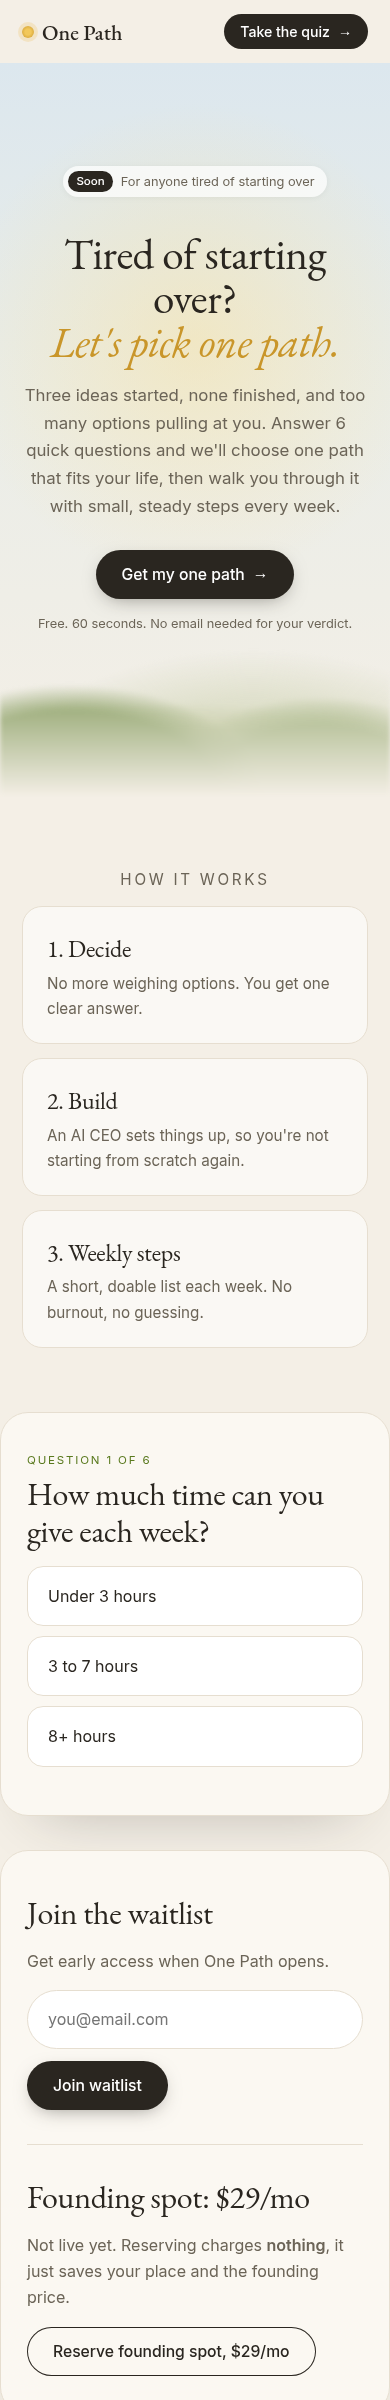
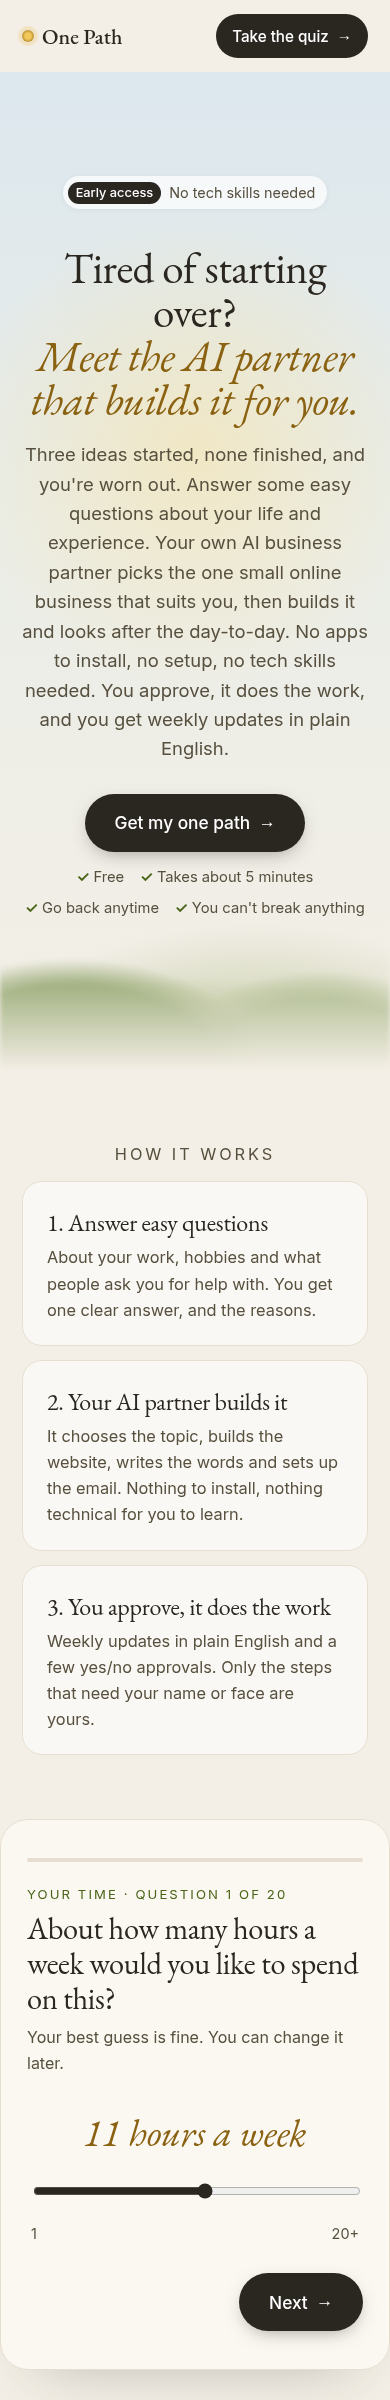
20-question plain-language assessment, AI partner positioning, optional in-your-own-words step, richer result

diff --git a/app.js b/app.js
@@ -1,29 +1,142 @@
-// CONFIG: set after Formspree signup (free tier). Same form receives waitlist + founding clicks.
+// One Path assessment. Formspree form xkjjjzlv receives waitlist + founding clicks.
 const FORM = "https://formspree.io/f/xkjjjzlv";
+const KEY = "onepath-v3";
 const gc = (path,title)=>{try{window.goatcounter&&goatcounter.count({path,title,event:true})}catch(e){}};
 const post = d=>fetch(FORM,{method:"POST",headers:{Accept:"application/json","Content-Type":"application/json"},body:JSON.stringify(d)});
-const P={
- freelance:{name:"Freelance one skill",why:"You already have a skill people pay for. Selling it as a simple service is the fastest way to learn what the market wants.",step:"Write a one-line offer for one skill and send it to 5 people or post it in one community."},
- digital:{name:"Sell one small digital product",why:"You can make things and like working alone. A template, guide or checklist can be built once and improved weekly.",step:"Pick one problem you've solved and outline a 1-page template or checklist for it."},
- content:{name:"Faceless content channel",why:"You have patience and some time but prefer not to be on camera. A focused topic channel builds slowly and steadily.",step:"Choose one narrow topic and draft titles for your first 10 posts."},
- creator:{name:"On-camera short videos",why:"You're comfortable on camera. Showing up consistently on one platform is your edge.",step:"Record and post 3 short videos about one thing you know, on one platform."},
- affiliate:{name:"Niche review site",why:"You have patience, little time pressure, and like writing. A small, honest review site in one niche can grow over months.",step:"Pick one niche you know and list 10 questions buyers ask about it."}};
+const esc = s=>String(s).replace(/[&<>"]/g,c=>({"&":"&amp;","<":"&lt;",">":"&gt;",'"':"&quot;"}[c]));
+
+const PATHS={
+ dir:{name:"A helpful guide website",line:"A website that lists and compares the best options for one thing people shop for, so they can choose with confidence.",
+  builds:["Chooses the exact topic, based on your answers","Builds the whole website for you","Writes the guides and comparison pages","Adds new pages every week","Sends you a plain-English update each week"],
+  you:["Say yes to the topic and the website's name","Glance over a few pages each week","Sign up for partner programs that need your real name"]},
+ dig:{name:"A shop for helpful downloads",line:"Simple checklists, planners or guides people buy and download, based on what you know.",
+  builds:["Finds a problem people are already looking to solve","Writes and designs the first download","Sets up the shop pages","Writes the announcement posts and emails","Tells you weekly what people looked at and bought"],
+  you:["Say yes to the product and its price","Read it over before it goes on sale","Open the payment account in your own name"]},
+ news:{name:"A weekly email people look forward to",line:"A short, friendly email each week that saves readers time on one subject.",
+  builds:["Decides who the readers are and what to cover","Sets up the email list and sign-up page","Researches and writes each week's email","Writes posts to help new readers find it","Tells you weekly how many people read it"],
+  you:["Read each email and approve it","Add a personal line now and then if you like","Create the email account in your own name"]},
+ face:{name:"A how-to video channel (you never appear)",line:"Short, useful videos on one subject, narrated by a voice and pictures, with no need to show your face.",
+  builds:["Picks the subject and studies what people watch","Writes every script and title","Makes the videos with narration and pictures","Uploads them on a schedule","Tells you weekly which videos people liked"],
+  you:["Say yes to the channel idea","Create the channel account in your name","Watch videos before they go live, if you want"]},
+ tool:{name:"A simple online tool",line:"A small web page that does one handy job, like a calculator or a checklist maker.",
+  builds:["Checks that people really want it","Builds the tool, start to finish","Puts it online with a clear welcome page","Writes the instructions","Keeps it running and fixes problems"],
+  you:["Say yes to the idea and the name","Try it and tell it what you think","Own the web address and any payment account"]},
+ lead:{name:"A local services website",line:"A website for your area that helps neighbors find a trusted local service, like roofers or pet sitters.",
+  builds:["Picks a service your area searches for","Builds the website and its local pages","Writes the content and the request form","Lists it on local maps and directories","Tells you weekly how many requests came in"],
+  you:["Say yes to the service and town","Have a short chat with one or two local businesses","Register the business listing in your name"]},
+ prod:{name:"A done-for-you helping service",line:"One clear service using your experience, like resume help or writing listings, with the AI doing most of the work.",
+  builds:["Shapes the service around what you already know","Builds the order page and the questions form","Drafts each piece of work for you","Handles the follow-up emails","Tells you weekly what came in and what's done"],
+  you:["Say yes to the service","Look over each piece of work before it's sent","Open the payment account in your own name"]},
+ crea:{name:"Short videos where you share what you know",line:"You talk to the camera for a minute or two. The AI handles scripts, editing and posting.",
+  builds:["Plans what to talk about each week","Writes your scripts in your voice","Edits your clips and posts them","Builds a simple page where people can follow you","Tells you weekly what people liked"],
+  you:["Record short clips on your phone (it gives you the words)","Say yes to anything that's offered","Own the accounts in your name"]},
+ comm:{name:"A members' club for people like you",line:"A friendly online group for people in a situation you understand, with guides and weekly topics.",
+  builds:["Decides who the club is for and what it offers","Sets up the club and its sign-up page","Writes weekly topics and guides","Welcomes new members by email","Tells you weekly how the club is doing"],
+  you:["Say yes to the theme","Pop in and say hello each week","Open the payment and club accounts in your name"]}};
+const ORDER=Object.keys(PATHS);
+const SECTIONS=["Your time","What you know","Your interests","Your comfort zone","How you like to work"];
 const Q=[
- {q:"How much time can you give each week?",a:[["Under 3 hours",{freelance:1,digital:2}],["3 to 7 hours",{digital:1,content:1,affiliate:1}],["8+ hours",{content:2,creator:2,freelance:1}]]},
- {q:"Which is closest to a skill you have?",a:[["Writing, design or code",{freelance:2,digital:1,affiliate:1}],["Explaining or teaching",{creator:2,content:1,digital:1}],["None I'd charge for yet",{content:1,affiliate:2}]]},
- {q:"How do you feel about being on camera?",a:[["Happy to",{creator:3}],["Maybe, voice only",{content:2}],["No thanks",{affiliate:1,digital:1,freelance:1}]]},
- {q:"Starting budget for tools?",a:[["Nothing",{freelance:2,creator:1}],["A little",{digital:1,content:1}],["Some, if it helps",{affiliate:1,content:1}]]},
- {q:"How patient are you for first results?",a:[["I need a sign in weeks",{freelance:3}],["A few months is fine",{digital:2,creator:1}],["I'll play the long game",{affiliate:2,content:2}]]},
- {q:"How do you prefer to work?",a:[["With clients and people",{freelance:2,creator:1}],["Alone, making things",{digital:2,affiliate:1,content:1}]]}];
-let i=0,s={};const q=document.getElementById("q"),r=document.getElementById("result");
-function show(){const x=Q[i];q.innerHTML=`<p class="prog">Question ${i+1} of ${Q.length}</p><h2>${x.q}</h2>`+x.a.map((o,k)=>`<button class="opt" data-k="${k}">${o[0]}</button>`).join("");
- q.querySelectorAll(".opt").forEach(b=>b.onclick=()=>{for(const[k,v]of Object.entries(x.a[b.dataset.k][1]))s[k]=(s[k]||0)+v;i++;i<Q.length?show():done()})}
-function done(){const order=["freelance","digital","content","creator","affiliate"];const best=order.reduce((a,b)=>(s[b]||0)>(s[a]||0)?b:a);const p=P[best];
- q.hidden=true;r.hidden=false;document.getElementById("wlv").value=best;
- r.innerHTML=`<p class="prog">Your one path</p><p class="verdict">${p.name}</p><p><b>Why:</b> ${p.why}</p><p><b>Your first-week step:</b> ${p.step}</p><a class="btn" href="#join">Get weekly steps →</a> <button class="opt" style="display:inline;width:auto" id="redo">Retake</button>`;
- document.getElementById("redo").onclick=()=>{i=0;s={};q.hidden=false;r.hidden=true;show()};gc("quiz-done-"+best,"Quiz verdict "+best)}
-show();
+ {s:0,id:"hours",t:"slider",q:"About how many hours a week would you like to spend on this?",hint:"Your best guess is fine. You can change it later.",min:1,max:20,unit:"hours a week",lo:{dir:3,dig:2,news:1,tool:2,lead:3},hi:{crea:3,comm:3,face:2,prod:3,news:2}},
+ {s:0,id:"when",t:"single",q:"When do you usually have free time?",o:[["Evenings",{dir:1,news:1,face:1,dig:1}],["Weekends",{lead:1,dig:1,tool:1}],["A little here and there",{dir:2,lead:2,dig:1}],["Most days, I'm flexible",{crea:2,comm:2,prod:2}]]},
+ {s:0,id:"goal",t:"single",q:"What would make this feel worth it to you?",o:[["Having something of my own that lasts",{dir:2,news:2,tool:2,lead:1}],["Helping real people soon",{prod:3,comm:1}],["Finally finishing one thing",{dir:2,dig:2,lead:1}],["Staying sharp and learning something new",{tool:2,face:1,crea:1}]]},
+ {s:0,id:"dropped",t:"single",q:"Have you tried starting something on the side before?",o:[["No, this would be my first",{}],["Once or twice",{dir:1,dig:1}],["A few times, and it didn't stick",{dir:2,lead:2,dig:1}]]},
+ {s:1,id:"career",t:"single",q:"What kind of work have you spent the most years doing?",o:[["Office, admin or finance",{dig:2,prod:2}],["Healthcare or caregiving",{comm:2,news:1,dig:1}],["Teaching or training",{comm:2,crea:1,dig:2}],["Trades, building or repairs",{lead:3,face:1}],["Sales, retail or customer service",{prod:2,lead:1,crea:1}],["Security, military or public service",{comm:1,dir:1,dig:1}],["Running my own business",{prod:2,tool:1,lead:1}],["Something else",{}]]},
+ {s:1,id:"skills",t:"multi",q:"Which of these come easily to you?",hint:"Tap all that apply, then press Next.",o:[["Writing letters or emails",{news:2,dig:1,dir:1}],["Explaining things patiently",{comm:2,crea:2,dig:1}],["Looking things up and comparing",{dir:3,news:1}],["Talking with people",{prod:2,lead:2,crea:1}],["Making things look nice",{dig:2,crea:1}],["Fixing or building things",{lead:2,face:1}],["Organizing and planning",{dig:2,prod:1}],["Using a computer or phone apps",{tool:2,face:1}]]},
+ {s:1,id:"askedfor",t:"text",q:"What do friends or family often ask you for help with?",hint:"Optional. A few words is plenty, like 'gardening' or 'Medicare forms'.",ph:"e.g. fixing up old furniture"},
+ {s:1,id:"tech",t:"slider",q:"How comfortable are you with computers?",hint:"Be honest. Your AI partner does the technical parts either way.",min:0,max:10,unit:"out of 10",lo:{lead:1,prod:1,comm:1,dir:1},hi:{tool:3,face:1,dig:1}},
+ {s:2,id:"hobbies",t:"multi",q:"What do you enjoy in your spare time?",hint:"Tap all that apply.",o:[["Gardening or the outdoors",{dir:2,face:1,news:1}],["Cooking or baking",{dig:2,crea:1,news:1}],["Crafts, woodworking or sewing",{dig:2,face:2}],["Travel",{news:2,dir:1}],["Fishing, hunting or sports",{dir:2,face:1}],["Pets",{lead:2,dir:1}],["Reading or history",{news:2,face:1}],["Family and grandkids",{comm:2,dig:1}]]},
+ {s:2,id:"local",t:"single",q:"How well do you know your town or area?",o:[["Very well, I know who does good work",{lead:3}],["Pretty well",{lead:1,dir:1}],["Not especially",{news:1,face:1,dig:1}]]},
+ {s:2,id:"who",t:"single",q:"Who would you most like to help?",o:[["Everyday folks shopping for something",{dir:2,face:1}],["Small business owners",{tool:2,prod:2}],["People who do the work I used to do",{comm:3,dig:1}],["Neighbors in my area",{lead:3}]]},
+ {s:2,id:"problem",t:"text",q:"Is there something people around you often complain about?",hint:"Optional. Your AI partner uses this to choose a topic.",ph:"e.g. hard to find a reliable handyman"},
+ {s:3,id:"budget",t:"single",q:"How much would you be comfortable spending each month on running costs?",hint:"Things like website hosting. You are never charged by this page.",o:[["Nothing for now",{prod:2,crea:1}],["A little",{dir:1,dig:1,news:1}],["A moderate amount",{tool:2,face:1,lead:1}],["More, if it helps it grow",{lead:2,dig:1,comm:1}]]},
+ {s:3,id:"patience",t:"slider",q:"How many months would you give it before deciding if it's working?",min:1,max:12,unit:"months",lo:{prod:3,crea:1},hi:{dir:3,news:2,face:2,lead:2}},
+ {s:3,id:"pace",t:"single",q:"Which sounds more like you?",o:[["Slow and steady suits me",{dir:2,news:2,face:1}],["I'd like to see something happen soon",{prod:2,dig:2,tool:1}]]},
+ {s:3,id:"quiet",t:"single",q:"If things are quiet for the first couple of months, you'd...",o:[["Keep going, that's normal",{dir:2,news:1,lead:1}],["Want to adjust and try again",{dig:2,prod:1,tool:1}],["Probably lose interest",{prod:2}]]},
+ {s:4,id:"camera",t:"slider",q:"How would you feel about appearing in short videos?",hint:"0 means no thanks. 10 means happy to.",min:0,max:10,unit:"out of 10",lo:{face:2,dir:2,news:1,tool:1},hi:{crea:4,comm:1}},
+ {s:4,id:"selling",t:"single",q:"How do you feel about chatting with customers?",o:[["I enjoy it",{prod:2,lead:2,comm:1}],["Fine once in a while",{dig:1,news:1}],["I'd rather not",{dir:2,face:2,tool:1}]]},
+ {s:4,id:"hands",t:"single",q:"How involved would you like to be?",o:[["Just approve things, let it do the rest",{dir:2,face:2,news:1,tool:1}],["Help out a few hours a week",{dig:1,lead:1,prod:1}],["Learn and do some parts myself",{crea:1,comm:1,tool:1}]]},
+ {s:4,id:"public",t:"single",q:"Would you like your name on it?",o:[["Yes, I'm happy to be the face",{crea:3,comm:2}],["A different name is fine",{news:1,dig:1}],["I'd rather stay in the background",{dir:2,face:2,lead:1,tool:1}]]}];
+
+let st=JSON.parse(localStorage.getItem(KEY)||"null")||{i:0,a:{}};
+const save=()=>localStorage.setItem(KEY,JSON.stringify(st));
+const qEl=document.getElementById("q"),rEl=document.getElementById("result");
+
+function contrib(q,val){ // returns {path:pts} and label
+ if(q.t==="slider"){const f=(val-q.min)/(q.max-q.min),o={};for(const p of ORDER){const v=(q.lo[p]||0)*(1-f)+(q.hi[p]||0)*f;if(v)o[p]=v}return o}
+ if(q.t==="single")return val==null?{}:q.o[val][1];
+ if(q.t==="multi"){const o={};(val||[]).forEach(k=>{for(const[p,v]of Object.entries(q.o[k][1]))o[p]=Math.min(3,(o[p]||0)+v)});return o}
+ return {}}
+function maxFor(q,p){if(q.t==="slider")return Math.max(q.lo[p]||0,q.hi[p]||0);if(q.t==="single")return Math.max(0,...q.o.map(o=>o[1][p]||0));if(q.t==="multi")return Math.min(3,q.o.reduce((s,o)=>s+(o[1][p]||0),0));return 0}
+function label(q,val){if(q.t==="slider")return val+" "+q.unit;if(q.t==="single")return q.o[val][0];if(q.t==="multi")return (val||[]).map(k=>q.o[k][0]).join(", ");return val}
+
+function score(){const tot={},dim={},log={};ORDER.forEach(p=>{tot[p]=0;dim[p]=SECTIONS.map(()=>[0,0]);log[p]=[]});
+ Q.forEach(q=>{const v=st.a[q.id];const c=contrib(q,v);ORDER.forEach(p=>{const m=maxFor(q,p);dim[p][q.s][1]+=m;const g=c[p]||0;dim[p][q.s][0]+=g;tot[p]+=g;if(g>0&&q.t!=="text")log[p].push([g,q,v])})});
+ const pct=p=>SECTIONS.map((_,s)=>{const[g,m]=dim[p][s];return m?Math.round(100*g/m):50});
+ const ranked=ORDER.map(p=>{const d=pct(p);return{p,d,fit:Math.round(d.reduce((a,b)=>a+b)/d.length),raw:tot[p]}}).sort((a,b)=>b.fit-a.fit||b.raw-a.raw);
+ return{ranked,log}}
+
+function render(){
+ if(st.i>=Q.length&&!st.storyDone)return story();
+ if(st.i>=Q.length)return done();
+ const q=Q[st.i],v=st.a[q.id];rEl.hidden=true;qEl.hidden=false;
+ const pctDone=Math.round(100*st.i/Q.length);
+ let body="";
+ if(q.t==="single")body=q.o.map((o,k)=>`<button class="opt${v===k?" sel":""}" data-k="${k}">${o[0]}</button>`).join("");
+ if(q.t==="multi")body=q.o.map((o,k)=>`<button class="opt chk${(v||[]).includes(k)?" sel":""}" data-k="${k}"><span class="box"></span>${o[0]}</button>`).join("");
+ if(q.t==="slider"){const val=v??Math.round((q.min+q.max)/2);body=`<div class="sl"><output id="slv">${val} ${q.unit}</output><input type="range" id="rng" min="${q.min}" max="${q.max}" value="${val}"><div class="slab"><span>${q.min}</span><span>${q.max}${q.max===20?"+":""}</span></div></div>`}
+ if(q.t==="text")body=`<input class="txt" id="txt" maxlength="80" placeholder="${esc(q.ph)}" value="${esc(v||"")}">`;
+ const needNext=q.t!=="single";
+ qEl.innerHTML=`<div class="bar"><i style="width:${pctDone}%"></i></div>
+ <p class="prog">${SECTIONS[q.s]} · Question ${st.i+1} of ${Q.length}</p><h2>${q.q}</h2>${q.hint?`<p class="hint">${q.hint}</p>`:""}${body}
+ <div class="nav">${st.i?'<button class="back" id="back">← Go back</button>':"<span></span>"}${needNext?`<button class="btn" id="next">${q.t==="text"&&!v?"Skip":"Next"} <span>→</span></button>`:""}</div>`;
+ const go=()=>{st.i++;save();render();document.getElementById("quiz").scrollIntoView({behavior:"smooth",block:"start"})};
+ if(q.t==="single")qEl.querySelectorAll(".opt").forEach(b=>b.onclick=()=>{st.a[q.id]=+b.dataset.k;go()});
+ if(q.t==="multi")qEl.querySelectorAll(".opt").forEach(b=>b.onclick=()=>{const k=+b.dataset.k,a=st.a[q.id]||[];st.a[q.id]=a.includes(k)?a.filter(x=>x!==k):[...a,k];b.classList.toggle("sel");save()});
+ if(q.t==="slider"){const r=document.getElementById("rng");st.a[q.id]=+r.value;r.oninput=()=>{st.a[q.id]=+r.value;document.getElementById("slv").textContent=r.value+" "+q.unit;save()}}
+ if(q.t==="text"){const t=document.getElementById("txt");t.oninput=()=>{st.a[q.id]=t.value.trim();document.getElementById("next").firstChild.textContent=t.value.trim()?"Next ":"Skip ";save()}}
+ const n=document.getElementById("next");if(n)n.onclick=go;
+ const b=document.getElementById("back");if(b)b.onclick=()=>{st.i--;save();render()};
+}
+
+const STORY=[["overwhelm","What feels overwhelming right now?"],["feel","What do you wish making money could feel like?"],["other","Anything else you're going through that we should know?"]];
+function story(){rEl.hidden=true;qEl.hidden=false;const s=st.story||{};
+ qEl.innerHTML=`<div class="bar"><i style="width:97%"></i></div><p class="prog">Last step · optional</p><h2>In your own words</h2>
+ <p class="hint">Only if you'd like. Your answers stay in this browser and are used to personalize your plan. They're only sent to us if you join the waitlist.</p>
+ ${STORY.map(([k,l])=>`<label class="lbl" for="st-${k}">${l}</label><textarea class="txt area" id="st-${k}" maxlength="400" rows="3">${esc(s[k]||"")}</textarea>`).join("")}
+ <div class="nav story-nav"><button class="back" id="back">← Go back</button><span class="two"><button class="btn alt" id="skip">Skip</button><button class="btn" id="see">See my result <span>→</span></button></span></div>`;
+ const read=()=>{const o={};STORY.forEach(([k])=>{const v=document.getElementById("st-"+k).value.trim();if(v)o[k]=v});return o};
+ STORY.forEach(([k])=>document.getElementById("st-"+k).oninput=()=>{st.story=read();save()});
+ document.getElementById("back").onclick=()=>{st.i=Q.length-1;save();render()};
+ const fin=skip=>{st.story=skip?{}:read();const filled=Object.keys(st.story).length>0;gc(filled?"story-filled":"story-skipped",filled?"Story filled":"Story skipped");st.storyDone=true;save();render();document.getElementById("quiz").scrollIntoView({behavior:"smooth",block:"start"})};
+ document.getElementById("skip").onclick=()=>fin(true);document.getElementById("see").onclick=()=>fin(false)}
+const snip=t=>{t=t.replace(/\s+/g," ").trim();const w=t.split(" ");return w.length>12?w.slice(0,12).join(" ")+"…":t};
+
+function done(){
+ const{ranked,log}=score(),w=ranked[0],ru=ranked[1],P=PATHS[w.p],R=PATHS[ru.p];
+ const reasons=log[w.p].sort((a,b)=>b[0]-a[0]).slice(0,4).map(([g,q,v])=>`<li><b>${esc(q.q.replace(/[?.…]+$/,""))}:</b> “${esc(label(q,v))}”</li>`).join("");
+ const gaps=SECTIONS.map((s,i)=>[s,w.d[i]-ru.d[i]]).sort((a,b)=>b[1]-a[1])[0];
+ const topic=st.a.askedfor,prob=st.a.problem;
+ const nicheLine=topic||prob?`<p class="note">Your AI partner would start by looking into ${topic?`“${esc(topic)}”`:""}${topic&&prob?" and ":""}${prob?`the problem you noticed: “${esc(prob)}”`:""}.</p>`:"";
+ const S=st.story||{};const refl=[S.overwhelm?`You said “${esc(snip(S.overwhelm))}” feels like a lot right now. That's why your plan sticks to one thing, and your AI partner handles the busy work.`:"",S.feel?`You said you'd like it to feel “${esc(snip(S.feel))}”. We'll keep your weekly updates short and calm with that in mind.`:""].filter(Boolean).map(x=>`<p class="note">${x}</p>`).join("");
+ qEl.hidden=true;rEl.hidden=false;
+ document.getElementById("wlv").value=w.p;
+ rEl.innerHTML=`<div class="bar"><i style="width:100%"></i></div><p class="prog">Your one path</p>
+ <p class="verdict">${P.name}</p><p class="lede">${P.line}</p>${refl}
+ <div class="fit"><div class="fitnum"><b>${w.fit}</b><span>fit score</span></div><div class="dims">${SECTIONS.map((s,i)=>`<div class="dim"><span>${s}</span><div class="track"><i style="width:${w.d[i]}%"></i></div><em>${w.d[i]}</em></div>`).join("")}</div></div>
+ <h3>Why this fits you</h3><ul class="why">${reasons}</ul>${nicheLine}
+ <h3>Runner-up: ${R.name}</h3><p class="mute">A close second, with a fit of ${ru.fit}. It came second mainly because of <b>${gaps[0].toLowerCase()}</b>: your first choice matched your answers better there.</p>
+ <div class="split"><div><h3>What your AI business partner builds and runs</h3><p class="hint">No tech skills needed. Nothing to install.</p><ul class="tick">${P.builds.map(x=>`<li>${x}</li>`).join("")}</ul></div>
+ <div><h3>What only you do</h3><ul class="you">${P.you.map(x=>`<li>${x}</li>`).join("")}<li>Read a plain-English weekly update and tap approve</li></ul></div></div>
+ <p class="fine">A fit score reflects how well a path matches your answers. It is not a prediction of results or income.</p>
+ <div class="nav"><button class="back" id="redo">↺ Retake</button><a class="btn" href="#join">Reserve my build <span>→</span></a></div>`;
+ document.getElementById("redo").onclick=()=>{st={i:0,a:{}};save();render()};
+ if(st.counted!==w.p){gc("quiz-done-"+w.p,"Quiz verdict "+w.p);st.counted=w.p;save()}
+ window.__result={winner:w.p,runner:ru.p,fit:w.fit};
+}
+function summary(){const o={};Q.forEach(q=>{const v=st.a[q.id];if(v!=null&&v!==""&&!(Array.isArray(v)&&!v.length))o[q.id]=label(q,v)});return o}
+render();
 document.getElementById("wl").onsubmit=async e=>{e.preventDefault();const f=e.target;gc("waitlist-submit","Waitlist submit");
- try{await post({email:f.email.value,type:"waitlist",verdict:f.verdict.value})}catch(_){}f.hidden=true;document.getElementById("wlmsg").hidden=false};
-document.getElementById("found").onclick=e=>{gc("founding-click","Founding $29 click");const em=document.getElementById("wl").email.value;
- post({type:"founding_click",email:em||"(none)",verdict:document.getElementById("wlv").value}).catch(()=>{});e.target.hidden=true;document.getElementById("fmsg").hidden=false};
+ const r=window.__result||{};try{await post({email:f.email.value,type:"waitlist",verdict:r.winner||"(quiz not finished)",runner_up:r.runner||"",fit:r.fit||"",answers:summary(),in_their_words:st.story||{}})}catch(_){}
+ f.hidden=true;document.getElementById("wlmsg").hidden=false};
+document.getElementById("found").onclick=e=>{gc("founding-click","Founding $29 click");const em=document.getElementById("wl").email.value;const r=window.__result||{};
+ post({type:"founding_click",email:em||"(none)",verdict:r.winner||"",answers:summary(),in_their_words:st.story||{}}).catch(()=>{});e.target.hidden=true;document.getElementById("fmsg").hidden=false};

diff --git a/style.css b/style.css
@@ -55,3 +55,46 @@ footer .logo{font-size:1.1rem;color:var(--ink);margin-bottom:10px}
  radial-gradient(110% 45% at 50% 100%,#C7CDA9 0 60%,transparent 80%),
  radial-gradient(90% 75% at 65% 100%,#D7DAC0aa 0 50%,transparent 75%)}
 .hills::after{content:"";position:absolute;inset:auto 0 0 0;height:90px;background:linear-gradient(180deg,transparent,var(--cream))}
+/* assessment */
+.bar{height:4px;background:var(--line);border-radius:4px;overflow:hidden;margin-bottom:22px}.bar i{display:block;height:100%;background:linear-gradient(90deg,var(--olive),var(--gold));transition:width .5s ease}
+.hint{color:var(--mute);font-size:.9rem;margin:-6px 0 12px}
+.opt.sel{border-color:var(--ink);background:#FFFDF8;box-shadow:inset 0 0 0 1px var(--ink)}
+.opt.chk{display:flex;align-items:center;gap:12px}.box{width:18px;height:18px;border:1.5px solid #bdb4a3;border-radius:5px;flex:none;transition:.2s}
+.opt.sel .box{background:var(--ink);border-color:var(--ink);box-shadow:inset 0 0 0 3px #fff}
+.sl{padding:18px 4px 6px}.sl output{display:block;font:italic 2.4rem var(--serif);color:var(--gold);text-align:center;margin-bottom:10px}
+input[type=range]{width:100%;accent-color:var(--ink);height:28px}.slab{display:flex;justify-content:space-between;font-size:.78rem;color:var(--mute)}
+.txt{width:100%;padding:15px 18px;font:inherit;border:1px solid var(--line);border-radius:16px;background:#fff;color:var(--ink);outline:none}.txt:focus{border-color:var(--ink);box-shadow:0 0 0 4px #2A262014}
+.nav{display:flex;justify-content:space-between;align-items:center;margin-top:22px;gap:10px}
+.back{background:none;border:0;font:inherit;color:var(--mute);cursor:pointer;padding:10px 0}.back:hover{color:var(--ink)}
+.lede{font-size:1.05rem;color:var(--mute);margin-top:0}
+.fit{display:flex;gap:20px;align-items:center;background:#fff;border:1px solid var(--line);border-radius:20px;padding:18px;margin:22px 0}
+.fitnum{text-align:center;flex:none}.fitnum b{display:block;font:400 3rem/1 var(--serif)}.fitnum span{font-size:.7rem;letter-spacing:.14em;text-transform:uppercase;color:var(--olive)}
+.dims{flex:1;display:grid;gap:7px}.dim{display:grid;grid-template-columns:1fr 70px 26px;gap:8px;align-items:center;font-size:.78rem;color:var(--mute)}
+.track{height:5px;background:var(--line);border-radius:5px;overflow:hidden}.track i{display:block;height:100%;background:var(--olive);border-radius:5px}.dim em{font-style:normal;text-align:right;color:var(--ink)}
+#result h3{font-size:1.35rem;margin:26px 0 8px}
+.why,.tick,.you{list-style:none;padding:0;margin:0}.why li,.tick li,.you li{padding:7px 0 7px 26px;position:relative;font-size:.95rem;border-bottom:1px solid #efe9de}
+.why li::before{content:"";position:absolute;left:6px;top:15px;width:7px;height:7px;border-radius:50%;background:var(--gold)}
+.tick li::before{content:"✓";position:absolute;left:4px;color:var(--olive)}.you li::before{content:"●";position:absolute;left:6px;font-size:.55rem;top:13px;color:var(--ink)}
+.note{background:#F6F0E2;border-radius:14px;padding:12px 16px;font-size:.92rem;margin-top:14px}.mute{color:var(--mute)}
+.split{display:grid;gap:8px}
+@media(min-width:760px){.split{grid-template-columns:1fr 1fr;gap:30px}.dim{grid-template-columns:1fr 140px 30px;font-size:.85rem}}
+/* accessibility pass: larger type, AA contrast, big targets */
+:root{--mute:#57503F;--gold:#8A6212;--olive:#4A6418}
+body{font-size:19px;line-height:1.6}
+.sub{font-size:1.15rem}.fine,.tag{font-size:.9rem}.tag b{font-size:.8rem}
+.btn{padding:18px 30px;font-size:1.08rem;min-height:56px}.pill{min-height:44px;font-size:.95rem}
+.opt{padding:20px 22px;font-size:1.08rem;min-height:64px;border-width:2px;border-color:#D9CFBD;border-radius:18px}
+.opt.sel{box-shadow:none;border-color:var(--ink)}
+.box{width:24px;height:24px;border-width:2px;border-color:#8F8572}
+.card h2{font-size:1.9rem}.prog{font-size:.82rem}.hint{font-size:1rem}
+.back{font-size:1.05rem;min-height:48px;color:var(--ink);text-decoration:underline;text-underline-offset:4px}
+input[type=range]{height:44px}input[type=email],.txt{font-size:1.08rem;padding:18px 20px;border-width:2px;border-color:#D9CFBD}
+.slab{font-size:.9rem}.dim{font-size:.9rem}.why li,.tick li,.you li{font-size:1.02rem}
+footer{font-size:.9rem}.how p{font-size:1.02rem}
+.reassure{display:flex;flex-wrap:wrap;gap:8px 16px;justify-content:center;font-size:.92rem;color:var(--mute);margin:14px 0 0;padding:0;list-style:none}
+.reassure li::before{content:"✓ ";color:var(--olive);font-weight:700}
+@media(max-width:759px){.fit{flex-direction:column;align-items:stretch;gap:12px}.fitnum{display:flex;align-items:baseline;gap:10px;justify-content:center}.dim{grid-template-columns:1fr 1.2fr 30px}}
+.lbl{display:block;font-weight:600;margin:18px 0 8px;font-size:1.05rem}.area{resize:vertical;min-height:110px;line-height:1.5;font-family:inherit}
+.two{display:flex;gap:10px;flex-wrap:wrap;justify-content:flex-end}
+.back{white-space:nowrap}
+@media(max-width:759px){.story-nav{flex-direction:column-reverse;align-items:stretch}.story-nav .two{flex-direction:column-reverse}.story-nav .btn{justify-content:center;width:100%}}

diff --git a/index.html b/index.html
@@ -11,16 +11,16 @@
 <header class="top"><span class="logo"><i></i>One Path</span><a href="#quiz" class="pill">Take the quiz <span>→</span></a></header>
 <main>
 <section class="hero"><div class="hills" aria-hidden="true"></div><div class="wrap fade">
-  <p class="tag"><b>Soon</b> For anyone tired of starting over</p>
-  <h1>Tired of starting over?<br><em>Let's pick one path.</em></h1>
-  <p class="sub">Three ideas started, none finished, and too many options pulling at you. Answer 6 quick questions and we'll choose one path that fits your life, then walk you through it with small, steady steps every week.</p>
+  <p class="tag"><b>Early access</b> No tech skills needed</p>
+  <h1>Tired of starting over?<br><em>Meet the AI partner that builds it for you.</em></h1>
+  <p class="sub">Three ideas started, none finished, and you're worn out. Answer some easy questions about your life and experience. Your own AI business partner picks the one small online business that suits you, then builds it and looks after the day-to-day. No apps to install, no setup, no tech skills needed. You approve, it does the work, and you get weekly updates in plain English.</p>
   <a href="#quiz" class="btn">Get my one path <span>→</span></a>
-  <p class="fine">Free. 60 seconds. No email needed for your verdict.</p>
+  <ul class="reassure"><li>Free</li><li>Takes about 5 minutes</li><li>Go back anytime</li><li>You can't break anything</li></ul>
 </div></section>
 <section class="wrap how fade"><p class="eyebrow">How it works</p>
-  <div><h3>1. Decide</h3><p>No more weighing options. You get one clear answer.</p></div>
-  <div><h3>2. Build</h3><p>An AI CEO sets things up, so you're not starting from scratch again.</p></div>
-  <div><h3>3. Weekly steps</h3><p>A short, doable list each week. No burnout, no guessing.</p></div>
+  <div><h3>1. Answer easy questions</h3><p>About your work, hobbies and what people ask you for help with. You get one clear answer, and the reasons.</p></div>
+  <div><h3>2. Your AI partner builds it</h3><p>It chooses the topic, builds the website, writes the words and sets up the email. Nothing to install, nothing technical for you to learn.</p></div>
+  <div><h3>3. You approve, it does the work</h3><p>Weekly updates in plain English and a few yes/no approvals. Only the steps that need your name or face are yours.</p></div>
 </section>
 <section id="quiz" class="wrap card fade">
   <div id="q"></div>
@@ -28,7 +28,7 @@
 </section>
 <section id="join" class="wrap card fade">
   <h2>Join the waitlist</h2>
-  <p>Get early access when One Path opens.</p>
+  <p>One Path is early and not live yet. Join to be first when your AI business partner can start building.</p>
   <form id="wl" action="https://formspree.io/f/xkjjjzlv" method="POST">
     <input type="email" name="email" required placeholder="you@email.com" aria-label="Email">
     <input type="hidden" name="type" value="waitlist"><input type="hidden" name="verdict" id="wlv">
@@ -42,6 +42,6 @@
   <p id="fmsg" class="ok" hidden>You're on the founding list. Nothing was charged.</p>
 </section>
 </main>
-<footer class="wrap"><p class="logo"><i></i>One Path</p><p><b>Honest note:</b> One Path helps you choose a direction and keep making progress. We make no promises about income. Most new online projects earn little or nothing for months, and many never do. Results depend on your effort, market, and many factors outside our control. Nothing here is financial advice.</p><p>© 2026 One Path</p></footer>
+<footer class="wrap"><p class="logo"><i></i>One Path</p><p><b>Honest note:</b> One Path picks one business direction for you and has an AI build and run the day-to-day, with your approval. We make no promises about income or results, and an AI-built business is not guaranteed to earn anything. Most new online projects earn little or nothing for months, and many never do. Results depend on your effort, market, and many factors outside our control. Nothing here is financial advice.</p><p>© 2026 One Path</p></footer>
 <script src="app.js"></script>
 </body></html>

diff --git a/marketing.md b/marketing.md
@@ -1,0 +1,65 @@
+# One Path: launch marketing (draft, nothing posted)
+
+FTC guardrail for everything below: promise a decision and weekly steps. No income claims, no dollar results, no earnings testimonials.
+
+## 1. Reddit story post (Paul's voice)
+
+**Recommended sub: r/SideProject** (post first here).
+Why: it's the one sub of those checked where sharing your own project is the point. No subreddit-specific self-promo rule is published (checked via rankhog.com 2026-09-29, oneup.today, tryhubbub.com Oct 2026). Norms: tell the build story, ask for specific feedback, reply to every comment, no bare link posts, don't repost the same project within ~a month. Reddit's site-wide guidance: keep self-promo a small share of your activity.
+
+**Title:** I burned out trying every money idea, so I built a 6-question quiz that just picks one for me
+
+**Body:**
+I work security in Columbus, and for the last couple of years my nights off have gone to "figuring out a side thing." Real estate. Then a print-on-demand shop. Then a YouTube channel I never posted to. Then back to real estate courses. I'd get three weeks into something, see someone online doing a different thing, and start over.
+
+The worst part wasn't the money spent on courses. It was the feeling that I'd wasted another month and was still at zero, plus tired.
+
+I build small AI tools on the side, so I finally built one for my own problem: a short quiz (time per week, skills, how you feel about being on camera, budget, patience) that gives you ONE path and a first step for this week. Not a list of 50 ideas. One.
+
+Next I'm working on the part I actually need: something that checks in every week with a short to-do so I don't drift again.
+
+I'm not promising it makes anyone money. Honestly most of this stuff takes a long time and plenty of it never pays off. It's just meant to stop the "starting over" loop.
+
+Would love blunt feedback:
+- Did the verdict you got feel right, or totally off?
+- Is any question confusing?
+- Would a weekly check-in actually help you, or is it one more thing to ignore?
+
+It's here if you want to try it: https://pg614.github.io/onepath/
+
+**Rule to follow:** stay in the comments for the first few hours and answer everyone. Don't repost it elsewhere the same day as copy-paste.
+
+### Subreddits checked
+| Sub | Self-promo rule (current) | Fit |
+|---|---|---|
+| r/SideProject | No published sub rule; sharing your own project is welcome if story + feedback ask | **Best first post** |
+| r/sidehustle (~3.3M) | Rule 1: no self-promotion of websites/own hustle, permanent ban. Only allowed in the Weekly Self-Promo Thread (reposted Mondays), with detail; link-only comments removed (threadfox.vip, read 2026-09-24; r/sidehustle weekly thread) | Only in the Monday weekly thread |
+| r/Entrepreneur (~4.5M) | Rule 2 no promotion; URL drops = permanent ban; need 10 comment karma in the sub; promos only in "Thank You Thursday" thread (tryhubbub.com, spacestationlabs.ai Oct 2026) | Only in Thank You Thursday, after earning karma |
+
+Paul's comment for the r/sidehustle Monday thread (needs detail, not just a link): reuse the first 3 paragraphs of the post above + link.
+
+## 2. Ad variations (Reddit Ads or Meta)
+
+**A.** Headline: Tired of starting over?
+Text: Three side ideas started, none finished? Answer 6 quick questions and get ONE path that fits your time, plus a first step for this week. Free, 60 seconds.
+
+**B.** Headline: Stop weighing options. Pick one.
+Text: Too many ways to "make money online" and you're stuck in the middle of all of them. One Path picks one for you and gives you small, steady steps every week.
+
+**C.** Headline: Burned out on side hustles?
+Text: You don't need another list of ideas. You need one decision and a plan you can keep up with after work. Take the free quiz.
+
+CTA button: "Take the quiz" / "Learn more". No income language anywhere. Note: Meta's ad policies restrict "get rich quick"/earnings-style ads, so this wording also keeps review safe.
+
+## 3. Starter ad test
+
+**Platform: Meta (Facebook + Instagram), Traffic objective, landing on the quiz.** Optional second leg: Reddit.
+
+- Budget: $10/day for 7 days (~$70 total), split across the 3 ads (Meta will shift spend to the best one).
+- Targeting: US, ages 25-45, interests like side hustle / entrepreneurship / passive income / work from home; or broad (Advantage+ audience) and let the creative filter.
+- What to watch: link CTR, cost per landing-page visit, quiz completions and waitlist signups (GoatCounter + Formspree), and founding-button click rate. Stop any ad that's clearly worst after ~3 days.
+- Cost reference: WordStream/LocaliQ 2026 benchmark puts median Facebook CPC for traffic campaigns at $0.60 across industries (1,892 US campaigns, Apr 2025-Jun 2026): https://www.wordstream.com/wp-content/uploads/2026/09/ws-guide-facebook-ads-benchmarks-2026.pdf . At that median, $70 would buy on the order of ~100 clicks, but actual cost can be very different; treat as directional.
+
+**Optional Reddit leg:** Reddit's minimum is $5/day per campaign (prowlo.com, stackmatix.com 2026). Target r/sidehustle, r/Entrepreneur, r/careerguidance-style communities via subreddit targeting at $10/day for 7 days. Benly.ai's 2026 benchmark lists ~$1.20 average CPC for specific-subreddit targeting (range $0.50-2.00): https://benly.ai/learn/reddit-ads/reddit-ads-cost-benchmarks . Some sources say a "judgeable" Reddit test needs far more ($50/day, prowlo.com), so a $10/day test is a cheap signal check, not a verdict.
+
+Decision gate (from the market-check plan): 100+ signups and 5%+ founding-button click rate over ~2 weeks combined with organic posts.
